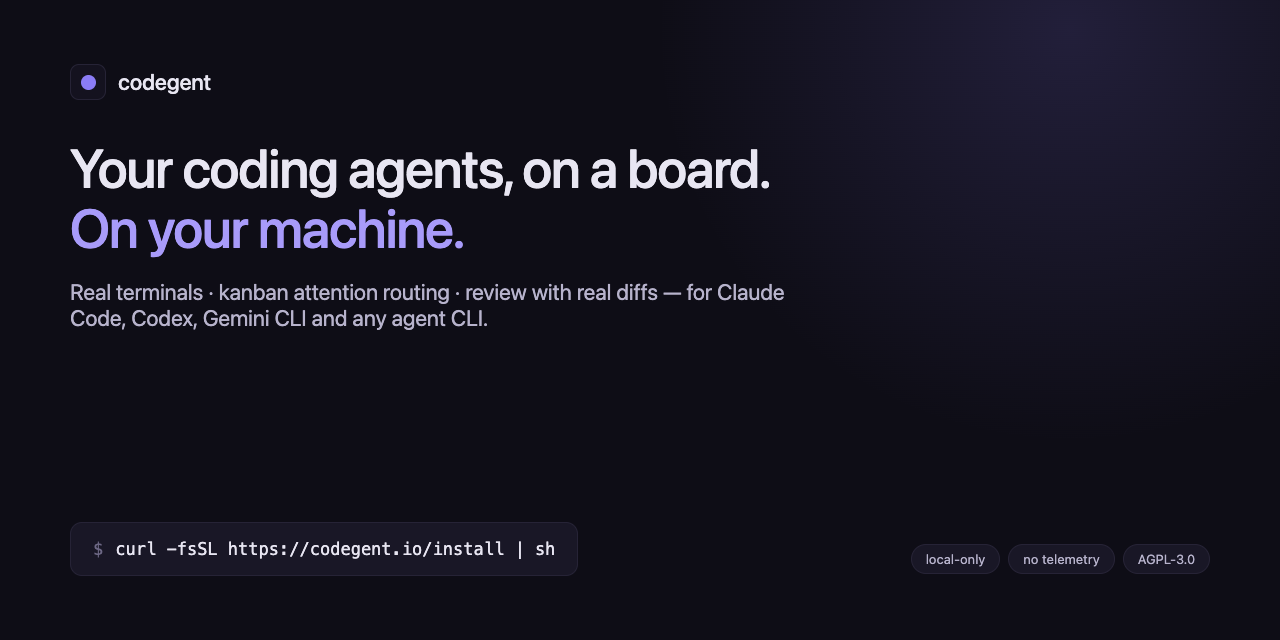
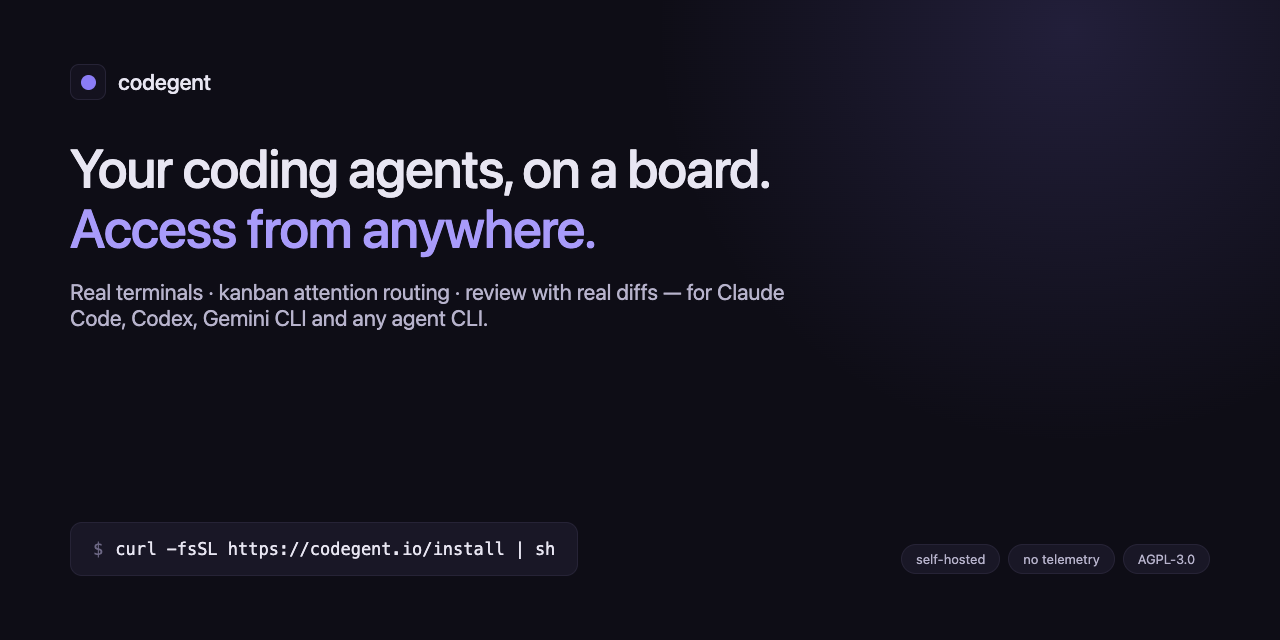
docs: demo now shows the full review loop (comment → send back → round 2 → merge); positioning: self-hosted, access from anywhere

Changed region(s): [[0.0312, 0.3125, 0.4688, 0.4062], [0.7188, 0.8438, 0.7812, 0.9062]]

diff --git a/apps/web/src/components/Settings.tsx b/apps/web/src/components/Settings.tsx
@@ -141,10 +141,10 @@ export function SettingsView({ project }: { project: Project }) {
           </button>
         </div>
         <div style={{ marginTop: 8, fontSize: 11, color: "var(--meta)", lineHeight: 1.5 }}>
-          codegent binds to localhost only. To use it from another device, bring your own
-          tunnel (Tailscale, cloudflared, or ssh -L) pointed at this URL — the token in
-          the fragment is the credential. Never expose the port on 0.0.0.0 directly.
-          See docs/expose-safely.md.
+          Access from anywhere: point your own tunnel (Tailscale, cloudflared, or ssh -L)
+          at this URL and the board works from any device — the token in the fragment is
+          the credential. By default codegent binds to localhost; never expose the port
+          on 0.0.0.0 directly. See docs/expose-safely.md.
         </div>
       </div>
     </div>

diff --git a/README.md b/README.md
@@ -2,18 +2,18 @@
 
 # <img src="apps/web/public/favicon.svg" width="28" valign="middle" alt=""> codegent
 
-**Your coding agents, on a board. On your machine.**
+**Your coding agents, on a board. Access from anywhere.**
 
-A local, browser-based orchestrator for Claude Code, Codex, Gemini CLI and any other agent CLI —
+A self-hosted, browser-based orchestrator for Claude Code, Codex, Gemini CLI and any other agent CLI —
 real terminals, a kanban board that routes attention, and a review flow with real diffs.
-No accounts. No cloud. No telemetry.
+Open it from any device. No accounts. No telemetry.
 
 [![ci](https://github.com/burakgon/codegent/actions/workflows/ci.yml/badge.svg)](https://github.com/burakgon/codegent/actions/workflows/ci.yml)
 [![release](https://img.shields.io/github/v/release/burakgon/codegent)](https://github.com/burakgon/codegent/releases)
 [![license](https://img.shields.io/badge/license-AGPL--3.0-8b7cf6)](LICENSE)
 [![site](https://img.shields.io/badge/site-codegent.io-8b7cf6)](https://codegent.io)
 
-<img src="docs/assets/demo.gif" width="830" alt="codegent demo: type a card, a real agent picks it up in a real terminal, review the diff, merge">
+<img src="docs/assets/demo.gif" width="830" alt="codegent demo: type a card, a real agent picks it up in a real terminal, review the diff, queue a line comment, send it back to the agent, merge">
 
 </div>
 
@@ -30,9 +30,9 @@ answer its questions **in that terminal**, review the diff, merge. macOS + Linux
 
 ## Why codegent
 
-Every agent vendor ships a remote UI for *their* agent. codegent is the opposite:
-**every agent, one board, your hardware, your subscriptions** — and your code
-never leaves the machine it lives on.
+Every agent vendor ships a UI for *their* agent. codegent is the opposite:
+**every agent, one board, your hardware, your subscriptions** — a self-hosted
+web app, so the same board follows you from desk to laptop to phone.
 
 <img src="docs/assets/board.png" width="830" alt="the board: queue, running, waiting for input, in review, done">
 
@@ -55,7 +55,7 @@ screen-region manifests, and the agent's own done-declaration over MCP:
 
 ```mermaid
 flowchart LR
-    B[browser board] <-->|state enums only| D[daemon · localhost]
+    B[browser board] <-->|state enums only| D[daemon]
     D <--> P[PTY per agent<br/>real terminal]
     D --> DET[detection<br/>process tree · OSC · manifests]
     A[agent CLI] -->|MCP task_complete| D
@@ -82,8 +82,7 @@ elapsed time, never scraped text. That's a principle, not a feature flag.
 
 |  | codegent | Vibe Kanban | Conductor / Orca | tmux + discipline |
 |---|---|---|---|---|
-| Runs fully local | ✔ | ✔ | desktop app | ✔ |
-| Browser UI | ✔ | ✔ | ✘ (native) | ✘ |
+| Browser UI — use from any device | ✔ | ✔ | ✘ (native app) | ✘ |
 | Any agent CLI | ✔ universal tier | partial | single-vendor focus | ✔ (by hand) |
 | Real PTY terminals | ✔ | ✘ (protocol-rendered chat) | ✔ | ✔ |
 | Waiting-for-input detection | ✔ content-free | partial | ✔ | ✘ |
@@ -92,13 +91,15 @@ elapsed time, never scraped text. That's a principle, not a feature flag.
 
 *(Honest table: Vibe Kanban pioneered the kanban framing; Orca's terminal UX is
 excellent. codegent exists for the combination: any agent + real terminals +
-review flow + local-only.)*
+review flow, reachable from any browser.)*
 
-## Security & privacy
+## Access from anywhere
 
-- Daemon binds `127.0.0.1` with a per-install token — nothing listens on your network.
-- Remote access is **your own tunnel** (Tailscale / cloudflared / `ssh -L`):
-  [docs/expose-safely.md](docs/expose-safely.md).
+- Point **your own tunnel** (Tailscale / cloudflared / `ssh -L`) at the daemon and the
+  full board — live terminals included — works from any browser, phone included:
+  [docs/expose-safely.md](docs/expose-safely.md). No third-party relay in the path.
+- By default it binds `127.0.0.1` with a per-install token — nothing listens on your
+  network until you decide it should.
 - No telemetry. It phones home for nothing.
 - Agent worktree bootstrap (copy-globs + setup scripts) is containment-checked;
   terminal content never crosses to any UI surface.
@@ -126,4 +127,4 @@ Built with [Bun](https://bun.sh), [ghostty-web](https://github.com/coder/ghostty
 
 If codegent is useful to you, **a star genuinely helps** other people find it. ★
 
-<sub>AGPL-3.0 · local-only by design · terminal content never leaves the terminal</sub>
+<sub>AGPL-3.0 · self-hosted · terminal content never leaves the terminal</sub>

diff --git a/docs/expose-safely.md b/docs/expose-safely.md
@@ -1,6 +1,7 @@
 # Exposing codegent safely
 
-codegent is **local-only by design**: the daemon binds `127.0.0.1` and every
+codegent is built to be **accessed from anywhere — through a tunnel you own**.
+By default the daemon binds `127.0.0.1` and every
 request needs the per-install token (`~/.codegent/token`, also in the URL
 fragment the CLI prints). There is no relay, no accounts, no remote service.
 